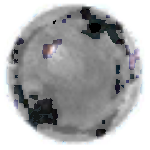
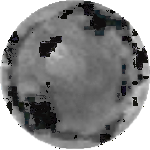
#240 - Improved Grey and Purple Control Markers
#229 - Added in new Damage Marker
#257- Added While loop to have gameHost wait for all players to select
their colors. There is an issue with the logic

diff --git a/GameDatabase/9acef3d0-efa8-4d3f-a10c-54812baecdda/scripts/actions.py b/GameDatabase/9acef3d0-efa8-4d3f-a10c-54812baecdda/scripts/actions.py
@@ -37,7 +37,7 @@ ControlMarkerPurple = ("Purple Control Marker", "5d6e5424-031b-44d4-9e0e-eb93f29
 ControlMarkerGrey = ("Grey Control Marker", "1b9d7c43-9cd3-4218-8451-4fd7edfc8a4f" )
 Cripple = ("Cripple", "82df2507-4fba-4c81-a1de-71e70b9a16f5" )
 CrushToken = ("Crush Token", "d7472637-7c6d-4593-bc16-5975155c2926" )
-Damage = ("Damage", "00000000-0000-0000-0000-000000000004" )
+Damage = ("Damage", "f316259d-10ad-471f-bdbc-884d11a8ced9" )
 Daze = ("Daze","3ef51126-e2c0-44b3-b781-0b3f8476cb20" )
 DeflectR = ("Deflect Ready", "684fcda0-e69d-426e-861c-5a92bc984f55" )
 DeflectU = ("Deflect Used", "2c5b85ea-93de-4a99-b64d-da6c48baa205" )
@@ -224,7 +224,17 @@ def onGameStart():
 		notify("Enabling debug mode. In debug mode, deck validation is turned off and you can advance to the next phase by yourself.")
 	else:
 		choosePlayerColor()
+		test = 0
 		if me.name == gameHost.name:
+			#players update the ColorsChosen variable with the choice number in choosePlayerColor() - remove this comment once while logic is working properly
+			while len(getPlayers()) > len(getGlobalVariable("ColorsChosen")):
+				notify("len(getPlayers()): {}".format(len(getPlayers())))
+				notify("len(getGlobalVariable('ColorsChosen'))): {}".format(len(getGlobalVariable("ColorsChosen"))))
+				time.sleep(1)
+				#remove the trhee lines below once the while logic is working properly
+				test += 1
+				notify("Test: {}".format(test))
+				if test == 20: break
 			PlayerSetup()
 			AskDiceRollArea()
 			# the Game Host now sets up the Initative, Phase, and Roll Dice Area
@@ -323,7 +333,6 @@ def rollForInitative():
 	for p in getPlayers():
 		notify("Automatically rolling initiative for {}...".format(p.name))
 		effect = rnd(1,12)
-		effect = 3
 		rollForPlayer += 1
 		notify("{} rolled a {} for initiative".format(p.name, effect))
 		myRollStr = (str(p._id) + ":" + str(effect) + ";")
@@ -1560,11 +1569,11 @@ def toggleQuick(card, x=0, y=0):
 	if card.markers[Quick] > 0:
 		card.markers[Quick] = 0
 		card.markers[QuickBack] = 1
-		notify("{} spends Quick Cast action".format(card.Name))
+		notify("{} spends Quickcast action".format(card.Name))
 	else:
 		card.markers[Quick] = 1
 		card.markers[QuickBack] = 0
-		notify("{} readies Quick Cast action".format(card.Name))
+		notify("{} readies Quickcast Marker".format(card.Name))
 
 def toggleVoltaric(card, x=0, y=0):
 	mute()
@@ -1582,7 +1591,7 @@ def toggleVoltaric(card, x=0, y=0):
 			me.Mana -= 2
 			card.markers[VoltaricON] = 1
 			card.markers[VoltaricOFF] = 0
-			notify("{} enables his Voltaric shield".format(me))
+			notify("{}  spends two mana to enable his Voltaric shield".format(me))
 		else: notify("{} chose not to enable his Voltaric shield".format(me))
 
 ############################################################################
